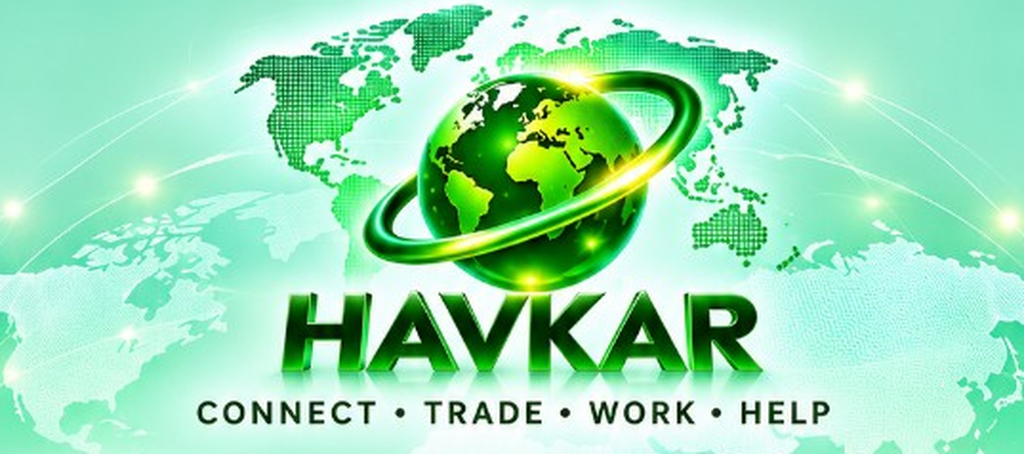
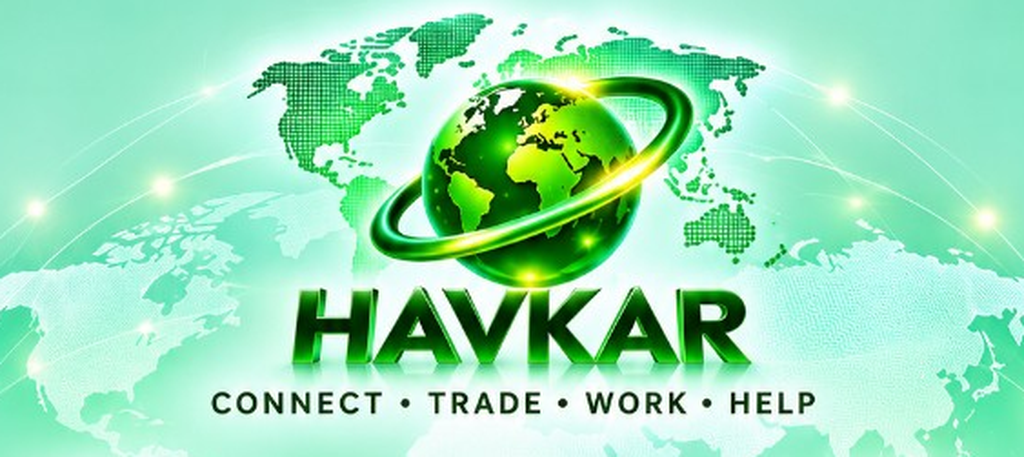
fix(home): complete Owner reference home without gaps
Rebuild the shared map, full 3D icon cutouts, curved globe horizon,
and glossy Profile & Settings bar to match the Owner home mockup end
to end while preserving all existing routes and i18n labels.

diff --git a/index.html b/index.html
@@ -82,7 +82,7 @@ body {
             rgba(210, 242, 220, 0.28) 48%,
             rgba(196, 236, 210, 0.45) 100%
         ),
-        url("assets/home/home-mint-map-bg.png?v=owner-home-full-icons-20261127d");
+        url("assets/home/home-mint-map-bg.png?v=owner-home-complete-20261127");
     background-size: auto, cover;
     background-position: center top, center top;
     background-repeat: no-repeat, no-repeat;
@@ -241,8 +241,8 @@ h1 {
     height: auto;
     aspect-ratio: 280 / 220;
     object-fit: contain;
-    /* No plate / blotch behind logos — cutouts sit directly on shared map */
-    filter: none;
+    /* Soft float shadow matching Owner reference — not a rectangular plate */
+    filter: drop-shadow(0 10px 14px rgba(20, 90, 40, 0.16));
     background: transparent;
 }
 
@@ -517,12 +517,34 @@ h1 {
    (full width of 3-tile row)
    ========================= */
 
+/* Owner reference: curved globe horizon under the 12 icons */
+.home-globe-horizon {
+    position: relative;
+    width: 100%;
+    margin: 2px 0 8px;
+    padding: 28px 0 10px;
+    z-index: 2;
+}
+
+.home-globe-horizon-art {
+    position: absolute;
+    left: 50%;
+    bottom: 0;
+    transform: translateX(-50%);
+    width: 118%;
+    max-width: none;
+    height: auto;
+    pointer-events: none;
+    z-index: 0;
+    opacity: 0.98;
+}
+
 .home-settings-bar {
     display: flex;
     align-items: center;
     gap: 14px;
     width: 100%;
-    margin: 14px 0 12px;
+    margin: 0;
     position: relative;
     z-index: 3;
     padding: 16px 18px;
@@ -532,14 +554,15 @@ h1 {
     background:
         linear-gradient(
             135deg,
-            #0d8f2f 0%,
-            #14a83a 45%,
-            #1fc24a 100%
+            #0a9a2e 0%,
+            #12b83a 42%,
+            #22d24f 100%
         );
     box-shadow:
         0 14px 28px rgba(12, 120, 40, 0.28),
-        inset 0 1px 0 rgba(255, 255, 255, 0.28);
-    border: 1px solid rgba(8, 90, 28, 0.28);
+        0 0 24px rgba(80, 220, 120, 0.22),
+        inset 0 1px 0 rgba(255, 255, 255, 0.35);
+    border: 1px solid rgba(8, 90, 28, 0.22);
     transition: transform .2s ease, box-shadow .2s ease;
 }
 
@@ -568,9 +591,20 @@ h1 {
     align-items: center;
     justify-content: center;
     font-size: 1.25rem;
-    color: #e8f5e9;
-    background: rgba(255, 255, 255, 0.12);
-    box-shadow: inset 0 1px 0 rgba(255, 255, 255, 0.2);
+    color: #ffffff;
+    background: rgba(255, 255, 255, 0.14);
+    box-shadow: inset 0 1px 0 rgba(255, 255, 255, 0.25);
+    position: relative;
+}
+
+.home-settings-bar-icon::after {
+    content: "";
+    position: absolute;
+    right: -8px;
+    top: 20%;
+    bottom: 20%;
+    width: 1px;
+    background: rgba(255, 255, 255, 0.45);
 }
 
 .home-settings-bar-copy {
@@ -749,10 +783,10 @@ html[data-havkar-entry="home"] .havkar-legal-footer {
         <p class="visually-hidden" data-i18n="tagline">Connect • Trade • Work • Help</p>
         <img
             class="home-header"
-            src="assets/home/header.png?v=owner-home-full-icons-20261127d"
+            src="assets/home/header.png?v=owner-home-complete-20261127"
             alt="HAVKAR. Connect • Trade • Work • Help"
             width="1024"
-            height="454"
+            height="457"
         >
     </header>
 
@@ -767,52 +801,52 @@ html[data-havkar-entry="home"] .havkar-legal-footer {
     >
 
         <a class="menu-item" href="buy-sell.html">
-            <img src="assets/home/buy-sell.png?v=owner-home-full-icons-20261127d" alt="" width="280" height="220">
+            <img src="assets/home/buy-sell.png?v=owner-home-complete-20261127" alt="" width="280" height="220">
             <span class="tile-label" data-i18n="buySell">Buy &amp; Sell</span>
         </a>
 
         <a class="menu-item" href="jobs.html">
-            <img src="assets/home/jobs.png?v=owner-home-full-icons-20261127d" alt="" width="280" height="220">
+            <img src="assets/home/jobs.png?v=owner-home-complete-20261127" alt="" width="280" height="220">
             <span class="tile-label" data-i18n="jobs">Jobs</span>
         </a>
 
         <a class="menu-item" href="services.html">
-            <img src="assets/home/services.png?v=owner-home-full-icons-20261127d" alt="" width="280" height="220">
+            <img src="assets/home/services.png?v=owner-home-complete-20261127" alt="" width="280" height="220">
             <span class="tile-label" data-i18n="services">Services</span>
         </a>
 
         <a class="menu-item" href="wallet.html">
-            <img src="assets/home/wallet.png?v=owner-home-full-icons-20261127d" alt="" width="280" height="220">
+            <img src="assets/home/wallet.png?v=owner-home-complete-20261127" alt="" width="280" height="220">
             <span class="tile-label" data-i18n="wallet">Wallet</span>
         </a>
 
         <a class="menu-item" href="tickets.html">
-            <img src="assets/home/tickets.png?v=owner-home-full-icons-20261127d" alt="" width="280" height="220">
+            <img src="assets/home/tickets.png?v=owner-home-complete-20261127" alt="" width="280" height="220">
             <span class="tile-label" data-i18n="tickets">Tickets</span>
         </a>
 
         <a class="menu-item" href="accommodation.html">
-            <img src="assets/home/accommodation.png?v=owner-home-full-icons-20261127d" alt="" width="280" height="220">
+            <img src="assets/home/accommodation.png?v=owner-home-complete-20261127" alt="" width="280" height="220">
             <span class="tile-label" data-i18n="accommodation">Accommodation</span>
         </a>
 
         <a class="menu-item" href="ads.html">
-            <img src="assets/home/ads.png?v=owner-home-full-icons-20261127d" alt="" width="280" height="220">
+            <img src="assets/home/ads.png?v=owner-home-complete-20261127" alt="" width="280" height="220">
             <span class="tile-label" data-i18n="ads">Ads</span>
         </a>
 
         <a class="menu-item" href="delivery.html">
-            <img src="assets/home/delivery.png?v=owner-home-full-icons-20261127d" alt="" width="280" height="220">
+            <img src="assets/home/delivery.png?v=owner-home-complete-20261127" alt="" width="280" height="220">
             <span class="tile-label" data-i18n="delivery">Delivery</span>
         </a>
 
         <a class="menu-item" href="events.html">
-            <img src="assets/home/events.png?v=owner-home-full-icons-20261127d" alt="" width="280" height="220">
+            <img src="assets/home/events.png?v=owner-home-complete-20261127" alt="" width="280" height="220">
             <span class="tile-label" data-i18n="events">Events</span>
         </a>
 
         <a class="menu-item" href="chat.html" data-havkar-tile="messenger">
-            <img src="assets/home/chat.png?v=owner-home-full-icons-20261127d" alt="HAVKAR Messenger" width="280" height="220">
+            <img src="assets/home/chat.png?v=owner-home-complete-20261127" alt="HAVKAR Messenger" width="280" height="220">
             <span class="tile-label" data-i18n="Messenger">Messenger</span>
         </a>
 
@@ -820,33 +854,43 @@ html[data-havkar-entry="home"] .havkar-legal-footer {
              Languages / Support / About remain at language.html, support.html, about.html
              and are reached from the Settings hub — pages are not deleted. -->
         <a class="menu-item" href="havkar-ai.html" data-havkar-tile="havkar-ai">
-            <img src="assets/home/havkar-ai.png?v=owner-home-full-icons-20261127d" alt="" width="280" height="220">
+            <img src="assets/home/havkar-ai.png?v=owner-home-complete-20261127" alt="" width="280" height="220">
             <span class="tile-label" data-i18n="havkarAi">HAVKAR AI</span>
         </a>
 
         <a class="menu-item" href="health.html" data-havkar-tile="health">
-            <img src="assets/home/doctors-pharmacies.png?v=owner-home-full-icons-20261127d" alt="" width="280" height="220">
+            <img src="assets/home/doctors-pharmacies.png?v=owner-home-complete-20261127" alt="" width="280" height="220">
             <span class="tile-label" data-i18n="doctorsPharmacies">Doctors &amp; Pharmacies</span>
         </a>
 
     </nav>
 
-    <!-- Full-width Profile & Settings bar (replaces the old fifth tile row + nested settings CTA). -->
-    <a
-        class="home-settings-bar"
-        href="profile.html"
-        data-havkar-home-settings="1"
-        aria-label="Profile and Settings"
-    >
-        <span class="home-settings-bar-icon" aria-hidden="true">
-            <i class="fas fa-sliders"></i>
-        </span>
-        <span class="home-settings-bar-copy">
-            <strong data-i18n="Profile &amp; Settings">Profile &amp; Settings</strong>
-            <span data-i18n="Language, support, about, account, and privacy">Language, support, about, account, and privacy</span>
-        </span>
-        <span class="home-settings-bar-arrow" aria-hidden="true">›</span>
-    </a>
+    <!-- Owner reference: curved globe horizon + Profile & Settings pill -->
+    <div class="home-globe-horizon" data-havkar-home-horizon="1">
+        <img
+            class="home-globe-horizon-art"
+            src="assets/home/home-globe-horizon.png?v=owner-home-complete-20261127"
+            alt=""
+            width="1120"
+            height="250"
+            aria-hidden="true"
+        >
+        <a
+            class="home-settings-bar"
+            href="profile.html"
+            data-havkar-home-settings="1"
+            aria-label="Profile and Settings"
+        >
+            <span class="home-settings-bar-icon" aria-hidden="true">
+                <i class="fas fa-gear"></i>
+            </span>
+            <span class="home-settings-bar-copy">
+                <strong data-i18n="Profile &amp; Settings">Profile &amp; Settings</strong>
+                <span data-i18n="Language, support, about, account, and privacy">Language, support, about, account, and privacy</span>
+            </span>
+            <span class="home-settings-bar-arrow" aria-hidden="true">›</span>
+        </a>
+    </div>
 
 
     <!-- Guest Create Account / Log In / security lock removed from Home.
